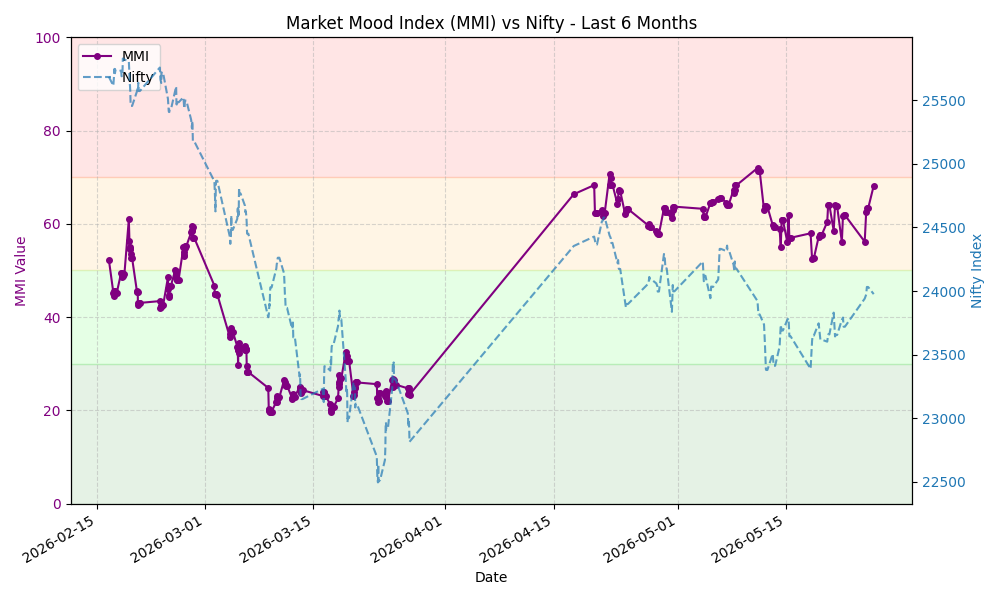
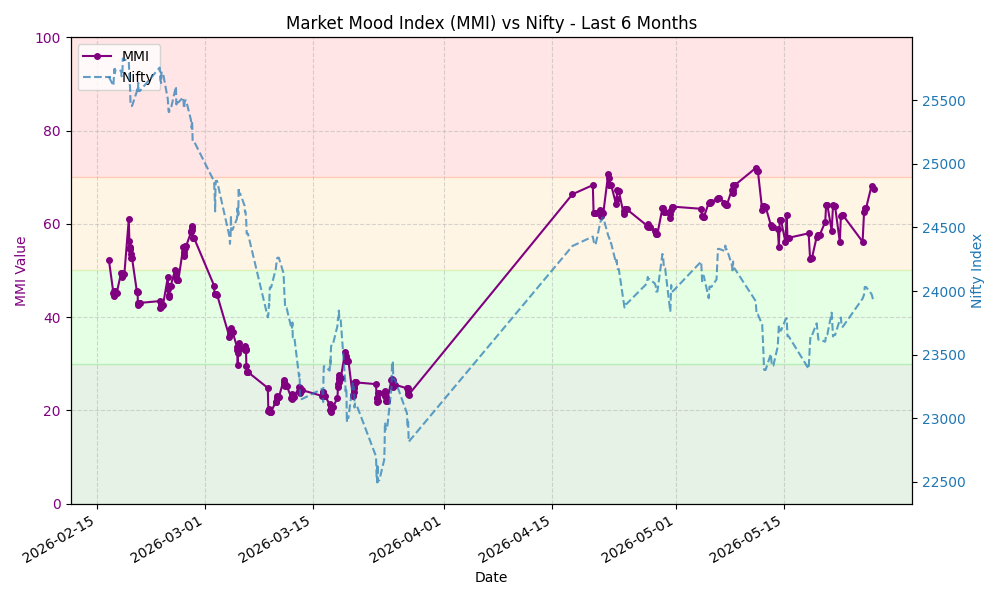
Update MMI data and chart

diff --git a/README.md b/README.md
@@ -7,8 +7,8 @@ This repository automatically fetches the MMI value, stores the history, and gen
 
 ## Latest MMI Value
 
-**68.20** - **Greed**
-<small>Last Updated: 2026-05-26 07:42 UTC</small>
+**67.40** - **Greed**
+<small>Last Updated: 2026-05-26 14:20 UTC</small>
 
 ## MMI Trend (Last 30 Days)
 